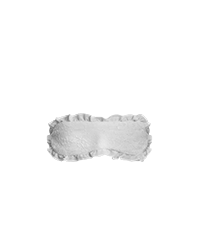
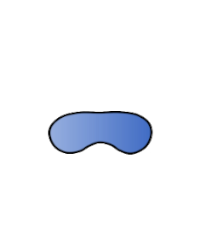
Smooth Sleep mask (#969)

Changed region(s): [[0.24, 0.4565, 0.78, 0.7304]]

diff --git a/BondageClub/Assets/Female3DCG/Female3DCG.js b/BondageClub/Assets/Female3DCG/Female3DCG.js
@@ -2099,11 +2099,12 @@ var AssetFemale3DCG = [
 			{ Name: "LatexBlindfold", Value: 35, Time: 5, AllowLock: true, Hide: ["Glasses"], Effect: ["BlindNormal", "Prone"] },
 			{ Name: "DogHood", Value: 60, Difficulty: 50, Time: 15, Random: false, AllowLock: true, DefaultColor: "#404040", Hide: ["HairFront", "HairBack", "Glasses", "ItemMouth", "ItemMouth2", "ItemMouth3", "HairAccessory1", "HairAccessory2"], Effect: ["GagNormal"], Block: ["ItemMouth", "ItemMouth2", "ItemMouth3", "ItemEars"] },
 			{ Name: "FoxyMask", Value: 50, Difficulty: 2, Time: 15, Random: false, AllowLock: true, Effect: ["GagLight"], Block: ["ItemMouth", "ItemMouth2", "ItemMouth3"] },
-			{ Name: "SleepMask", Value: 5, Time: 5, Hide: ["Glasses"], Effect: ["BlindLight", "Prone"] },
+			{ Name: "FrilledSleepMask", Value: 5, Time: 5, Hide: ["Glasses"], Effect: ["BlindLight", "Prone"] },
 			{ Name: "BlackoutLenses", Value: 60, Difficulty: 10, Random: false, DefaultColor: "#333333", Hide: ["Glasses", "Eyes"], Effect: ["BlindHeavy", "Prone"] },
 			{ Name: "WebBlindfold", Value: 50, Difficulty: 5, Time: 10, RemoveTime: 20, Random: false, Hide: ["Glasses"], AllowBlock: ["ItemMouth", "ItemMouth2", "ItemMouth3", "ItemEars"], AllowEffect: ["BlindHeavy", "GagNormal"], AllowType: ["Cocoon"], Effect: ["BlindLight", "Prone"], Extended: true },
 			{ Name: "RopeBlindfold", Value: 60, Time: 15, DefaultColor: "#956B1C", BuyGroup: "HempRope", Hide: ["Glasses"], Effect: ["BlindLight", "Prone"] },
 			{ Name: "PonyHood", Value: -1, Difficulty: 50, Time: 15, Random: false, AllowLock: true, DefaultColor: "#404040", Hide: ["HairFront", "HairBack", "Glasses", "ItemMouth", "ItemMouth2", "ItemMouth3","Eyes", "HairAccessory1", "HairAccessory2"], Effect: ["BlindHeavy", "DeafLight", "Prone", "GagNormal"], Block: ["ItemMouth", "ItemMouth2", "ItemMouth3", "ItemEars", "ItemNeck"] },
+			{ Name: "SleepMask", Value: 5, Time: 5, Hide: ["Glasses"], Effect: ["BlindLight", "Prone"] },
 			AssetSpankingToys
 		],
 		Color: ["Default"]
